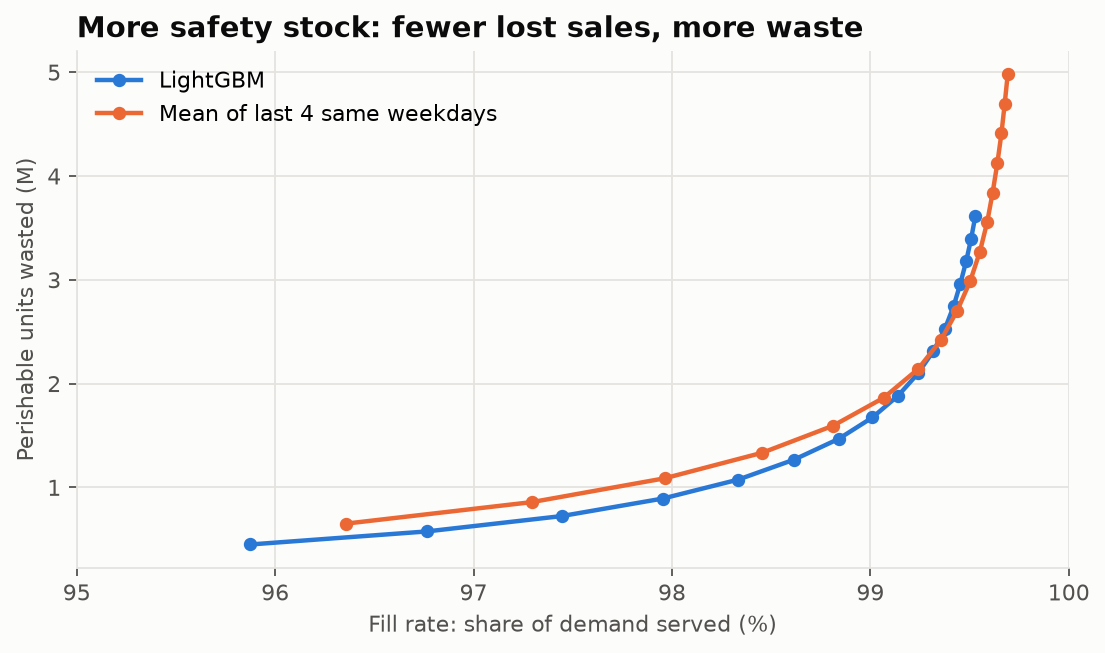
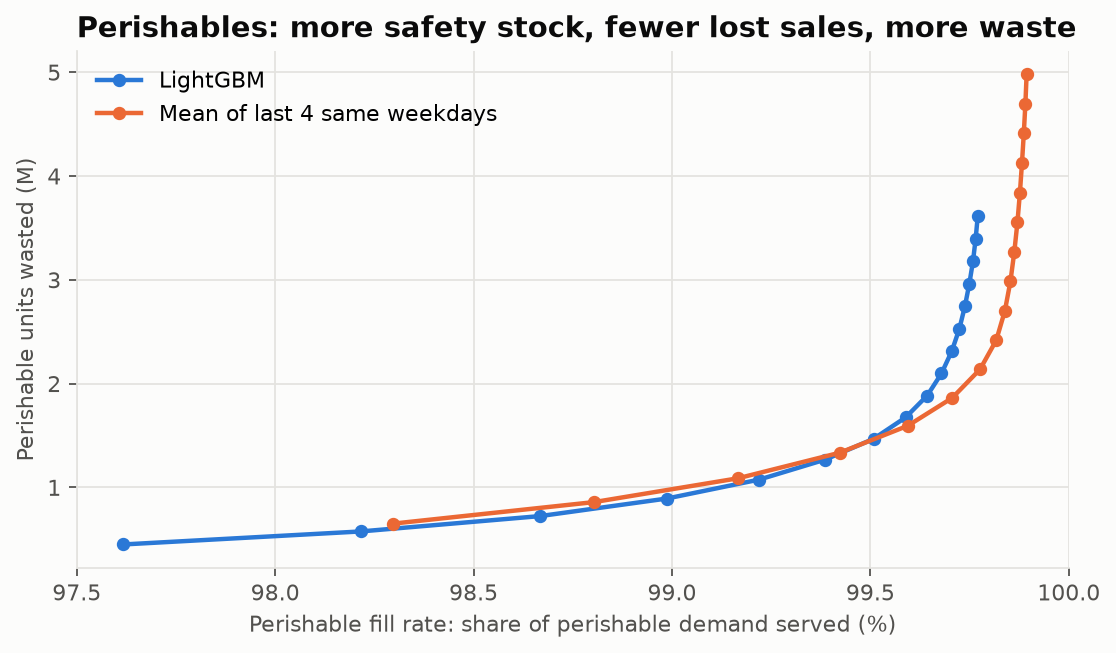
fix(inventory): compare each segment at its own fill rate
A single fill rate across perishable and non-perishable families let a model
trade empty fresh shelves for full dry ones. Perishable waste is now matched on
the perishable fill rate and leftover dry stock on the non-perishable fill rate.

diff --git a/src/retail_demand/inventory.py b/src/retail_demand/inventory.py
@@ -9,6 +9,12 @@ Assumptions (kept deliberately simple, and stated in the README):
 - Models are compared at the same fill rate: we sweep z, then read each model's waste
   at a matched fill rate. Comparing at one fixed z would favour whichever model happens
   to hold more stock.
+- Fill rate is measured separately for perishable and non-perishable families, and each
+  outcome is matched on its own segment's fill rate: perishable waste at the perishable
+  fill rate, non-perishable leftover stock at the non-perishable fill rate. A single
+  fill rate across both would let a model trade empty fresh shelves for full dry ones.
+- The sweep runs on the test weeks, so it is a look-back comparison of operating points,
+  not a policy chosen in advance. It treats every model the same way.
 - Demand that cannot be served is lost (no backorders).
 - Perishable families: anything left at the end of the week is thrown away.
   Non-perishable families: leftovers carry over to the next week.
@@ -21,7 +27,11 @@ import numpy as np
 import pandas as pd
 
 Z_GRID: tuple[float, ...] = tuple(float(z) for z in np.arange(0.0, 4.01, 0.25))
-FILL_RATE_TARGETS: tuple[float, ...] = (0.97, 0.98, 0.99)
+# Targets sit inside the range every competitive model reaches in the sweep. Perishables
+# are rarely short (the best baseline serves 98.3% even with no safety stock), so their
+# targets are higher.
+PERISHABLE_TARGETS: tuple[float, ...] = (0.985, 0.99, 0.995)
+NON_PERISHABLE_TARGETS: tuple[float, ...] = (0.97, 0.98, 0.99)
 KEYS = ["store_nbr", "family"]
 
 logger = logging.getLogger(__name__)
@@ -100,32 +110,43 @@ def simulate_model(
         z: Safety stock multiplier.
 
     Returns:
-        Fill rate, lost units, wasted perishable units and average leftover stock.
+        Fill rate per segment (perishable, non-perishable), lost units, wasted perishable
+        units and average weekly leftover non-perishable stock.
     """
     buffers = safety_stocks(validation_weekly, model, z)
     n_weeks = test_weekly["origin"].nunique()
-    demand = served = lost = wasted = ending = 0.0
+    demand = {True: 0.0, False: 0.0}
+    served = {True: 0.0, False: 0.0}
+    lost = wasted = ending = 0.0
     for _, weeks in test_weekly.groupby(KEYS, observed=True):
         first = weeks.iloc[0]
+        perishable = bool(first["perishable"])
         outcome = simulate_series(
             weeks["target"].to_numpy(),
             weeks[model].to_numpy(),
             float(buffers.get((first["store_nbr"], first["family"]), 0.0)),
-            bool(first["perishable"]),
+            perishable,
         )
-        demand += outcome.demand
-        served += outcome.served
+        demand[perishable] += outcome.demand
+        served[perishable] += outcome.served
         lost += outcome.lost
         wasted += outcome.wasted
-        ending += outcome.ending_stock
+        if not perishable:
+            ending += outcome.ending_stock
     return {
         "model": model,
         "z": z,
-        "fill_rate": served / demand,
+        "fill_rate_perishable": _ratio(served[True], demand[True]),
+        "fill_rate_non_perishable": _ratio(served[False], demand[False]),
         "lost_units": lost,
         "wasted_units_perishable": wasted,
         "avg_leftover_stock_non_perishable": ending / n_weeks,
     }
+
+
+def _ratio(numerator: float, denominator: float) -> float:
+    """numerator / denominator, or NaN when there is no demand to serve."""
+    return numerator / denominator if denominator > 0 else float("nan")
 
 
 def service_frontier(
@@ -155,48 +176,30 @@ def service_frontier(
 
 
 def at_matched_fill_rate(
-    frontier: pd.DataFrame, targets: tuple[float, ...] = FILL_RATE_TARGETS
+    frontier: pd.DataFrame, fill_column: str, value_column: str, targets: tuple[float, ...]
 ) -> pd.DataFrame:
-    """Interpolate each model's waste and leftover stock at the same fill rates.
+    """Interpolate each model's outcome at the same fill rates.
 
     Args:
         frontier: Output of service_frontier.
-        targets: Fill rates to compare at. Each must lie inside every model's swept range.
+        fill_column: Fill rate to match on, e.g. "fill_rate_perishable".
+        value_column: Outcome to read off, e.g. "wasted_units_perishable".
+        targets: Fill rates to compare at.
 
     Returns:
-        One row per (model, target fill rate).
-
-        Targets a model never reaches in the sweep get NaN values.
+        One row per (model, target fill rate) with columns model, fill_rate and
+        value_column. Targets a model never reaches in the sweep get NaN.
     """
     records: list[dict[str, float | str]] = []
     for model, rows in frontier.groupby("model", sort=False):
-        rows = rows.sort_values("fill_rate")
-        fill = rows["fill_rate"].to_numpy()
+        rows = rows.sort_values(fill_column)
+        fill = rows[fill_column].to_numpy()
         for target in targets:
-            if not fill.min() <= target <= fill.max():
+            value = float("nan")
+            if fill.min() <= target <= fill.max():
+                value = float(np.interp(target, fill, rows[value_column].to_numpy()))
+            else:
                 # Unreachable in the swept range: record it as missing, never extrapolate.
-                logger.warning("%s never reaches a %.0f%% fill rate", model, target * 100)
-                records.append(
-                    {
-                        "model": str(model),
-                        "fill_rate": target,
-                        "wasted_units_perishable": float("nan"),
-                        "avg_leftover_stock_non_perishable": float("nan"),
-                    }
-                )
-                continue
-            records.append(
-                {
-                    "model": str(model),
-                    "fill_rate": target,
-                    "wasted_units_perishable": float(
-                        np.interp(target, fill, rows["wasted_units_perishable"].to_numpy())
-                    ),
-                    "avg_leftover_stock_non_perishable": float(
-                        np.interp(
-                            target, fill, rows["avg_leftover_stock_non_perishable"].to_numpy()
-                        )
-                    ),
-                }
-            )
+                logger.warning("%s never reaches %.1f%% (%s)", model, target * 100, fill_column)
+            records.append({"model": str(model), "fill_rate": target, value_column: value})
     return pd.DataFrame(records)

diff --git a/tests/test_inventory.py b/tests/test_inventory.py
@@ -2,7 +2,7 @@ import numpy as np
 import pandas as pd
 import pytest
 
-from retail_demand.inventory import at_matched_fill_rate, simulate_series
+from retail_demand.inventory import at_matched_fill_rate, simulate_model, simulate_series
 
 
 def test_perfect_forecast_without_buffer_serves_everything_with_no_waste() -> None:
@@ -46,16 +46,16 @@ def test_matched_fill_rate_interpolates_between_sweep_points() -> None:
         {
             "model": ["A", "A"],
             "z": [0.0, 1.0],
-            "fill_rate": [0.96, 1.00],
+            "fill_rate_perishable": [0.96, 1.00],
             "wasted_units_perishable": [100.0, 300.0],
-            "avg_leftover_stock_non_perishable": [10.0, 30.0],
         }
     )
 
-    result = at_matched_fill_rate(frontier, targets=(0.98,))
+    result = at_matched_fill_rate(
+        frontier, "fill_rate_perishable", "wasted_units_perishable", targets=(0.98,)
+    )
 
     assert result.loc[0, "wasted_units_perishable"] == pytest.approx(200.0)
-    assert result.loc[0, "avg_leftover_stock_non_perishable"] == pytest.approx(20.0)
 
 
 def test_matched_fill_rate_marks_unreachable_targets_as_missing() -> None:
@@ -63,12 +63,48 @@ def test_matched_fill_rate_marks_unreachable_targets_as_missing() -> None:
         {
             "model": ["A", "A"],
             "z": [0.0, 1.0],
-            "fill_rate": [0.96, 0.97],
+            "fill_rate_perishable": [0.96, 0.97],
             "wasted_units_perishable": [100.0, 300.0],
-            "avg_leftover_stock_non_perishable": [10.0, 30.0],
         }
     )
 
-    result = at_matched_fill_rate(frontier, targets=(0.99,))
+    result = at_matched_fill_rate(
+        frontier, "fill_rate_perishable", "wasted_units_perishable", targets=(0.99,)
+    )
 
     assert np.isnan(result.loc[0, "wasted_units_perishable"])
+
+
+def _weekly(perishable: list[int], target: list[float], forecast: list[float]) -> pd.DataFrame:
+    """One week per series: series i is store i, family 'F'."""
+    n = len(target)
+    return pd.DataFrame(
+        {
+            "store_nbr": list(range(n)),
+            "family": ["F"] * n,
+            "perishable": perishable,
+            "origin": [0] * n,
+            "target": target,
+            "m": forecast,
+        }
+    )
+
+
+def test_fill_rate_is_reported_per_segment_not_pooled() -> None:
+    # Perishable series is fully served, non-perishable series is half served.
+    # A pooled fill rate would read 150 / 200 = 75% and hide the split.
+    weekly = _weekly(perishable=[1, 0], target=[100.0, 100.0], forecast=[100.0, 50.0])
+
+    result = simulate_model(weekly, weekly, "m", z=0.0)
+
+    assert result["fill_rate_perishable"] == pytest.approx(1.0)
+    assert result["fill_rate_non_perishable"] == pytest.approx(0.5)
+
+
+def test_leftover_stock_only_counts_non_perishables() -> None:
+    weekly = _weekly(perishable=[1, 0], target=[10.0, 10.0], forecast=[15.0, 12.0])
+
+    result = simulate_model(weekly, weekly, "m", z=0.0)
+
+    assert result["wasted_units_perishable"] == pytest.approx(5.0)
+    assert result["avg_leftover_stock_non_perishable"] == pytest.approx(2.0)

diff --git a/src/retail_demand/figures.py b/src/retail_demand/figures.py
@@ -13,6 +13,8 @@ import matplotlib.pyplot as plt
 import pandas as pd
 from matplotlib.axes import Axes
 
+from retail_demand.evaluate import best_baseline
+
 logger = logging.getLogger(__name__)
 
 SURFACE = "#fcfcfb"
@@ -53,12 +55,6 @@ def _save(fig: plt.Figure, out: Path) -> None:
     fig.savefig(out)
     plt.close(fig)
     logger.info("Wrote %s", out)
-
-
-def best_baseline(overall: pd.DataFrame) -> str:
-    """The baseline with the lowest validation WAPE (chosen on validation, not test)."""
-    validation = overall[(overall["period"] == "validation") & (overall["model"] != "LightGBM")]
-    return str(validation.sort_values("WAPE").iloc[0]["model"])
 
 
 def weekly_sales(con: duckdb.DuckDBPyConnection, out: Path) -> None:
@@ -179,15 +175,15 @@ def feature_importance(importance: pd.DataFrame, out: Path) -> None:
 
 
 def inventory_frontier(frontier: pd.DataFrame, baseline: str, out: Path) -> None:
-    """Fill rate vs perishable waste as safety stock grows, best baseline vs LightGBM."""
+    """Perishable fill rate vs perishable waste as safety stock grows, best baseline vs LightGBM."""
     fig, ax = plt.subplots(figsize=(8, 4.2))
     for model, colour in (
         ("LightGBM", MODEL_COLOURS["LightGBM"]),
         (baseline, MODEL_COLOURS["baseline"]),
     ):
-        rows = frontier[frontier["model"] == model].sort_values("fill_rate")
+        rows = frontier[frontier["model"] == model].sort_values("fill_rate_perishable")
         ax.plot(
-            rows["fill_rate"] * 100,
+            rows["fill_rate_perishable"] * 100,
             rows["wasted_units_perishable"] / 1e6,
             color=colour,
             linewidth=2,
@@ -195,9 +191,9 @@ def inventory_frontier(frontier: pd.DataFrame, baseline: str, out: Path) -> None
             markersize=5,
             label=model,
         )
-    ax.set_xlim(95, 100)
-    ax.set_title("More safety stock: fewer lost sales, more waste")
-    ax.set_xlabel("Fill rate: share of demand served (%)")
+    ax.set_xlim(97.5, 100)
+    ax.set_title("Perishables: more safety stock, fewer lost sales, more waste")
+    ax.set_xlabel("Perishable fill rate: share of perishable demand served (%)")
     ax.set_ylabel("Perishable units wasted (M)")
     ax.legend(loc="upper left")
     _grid(ax, "both")
